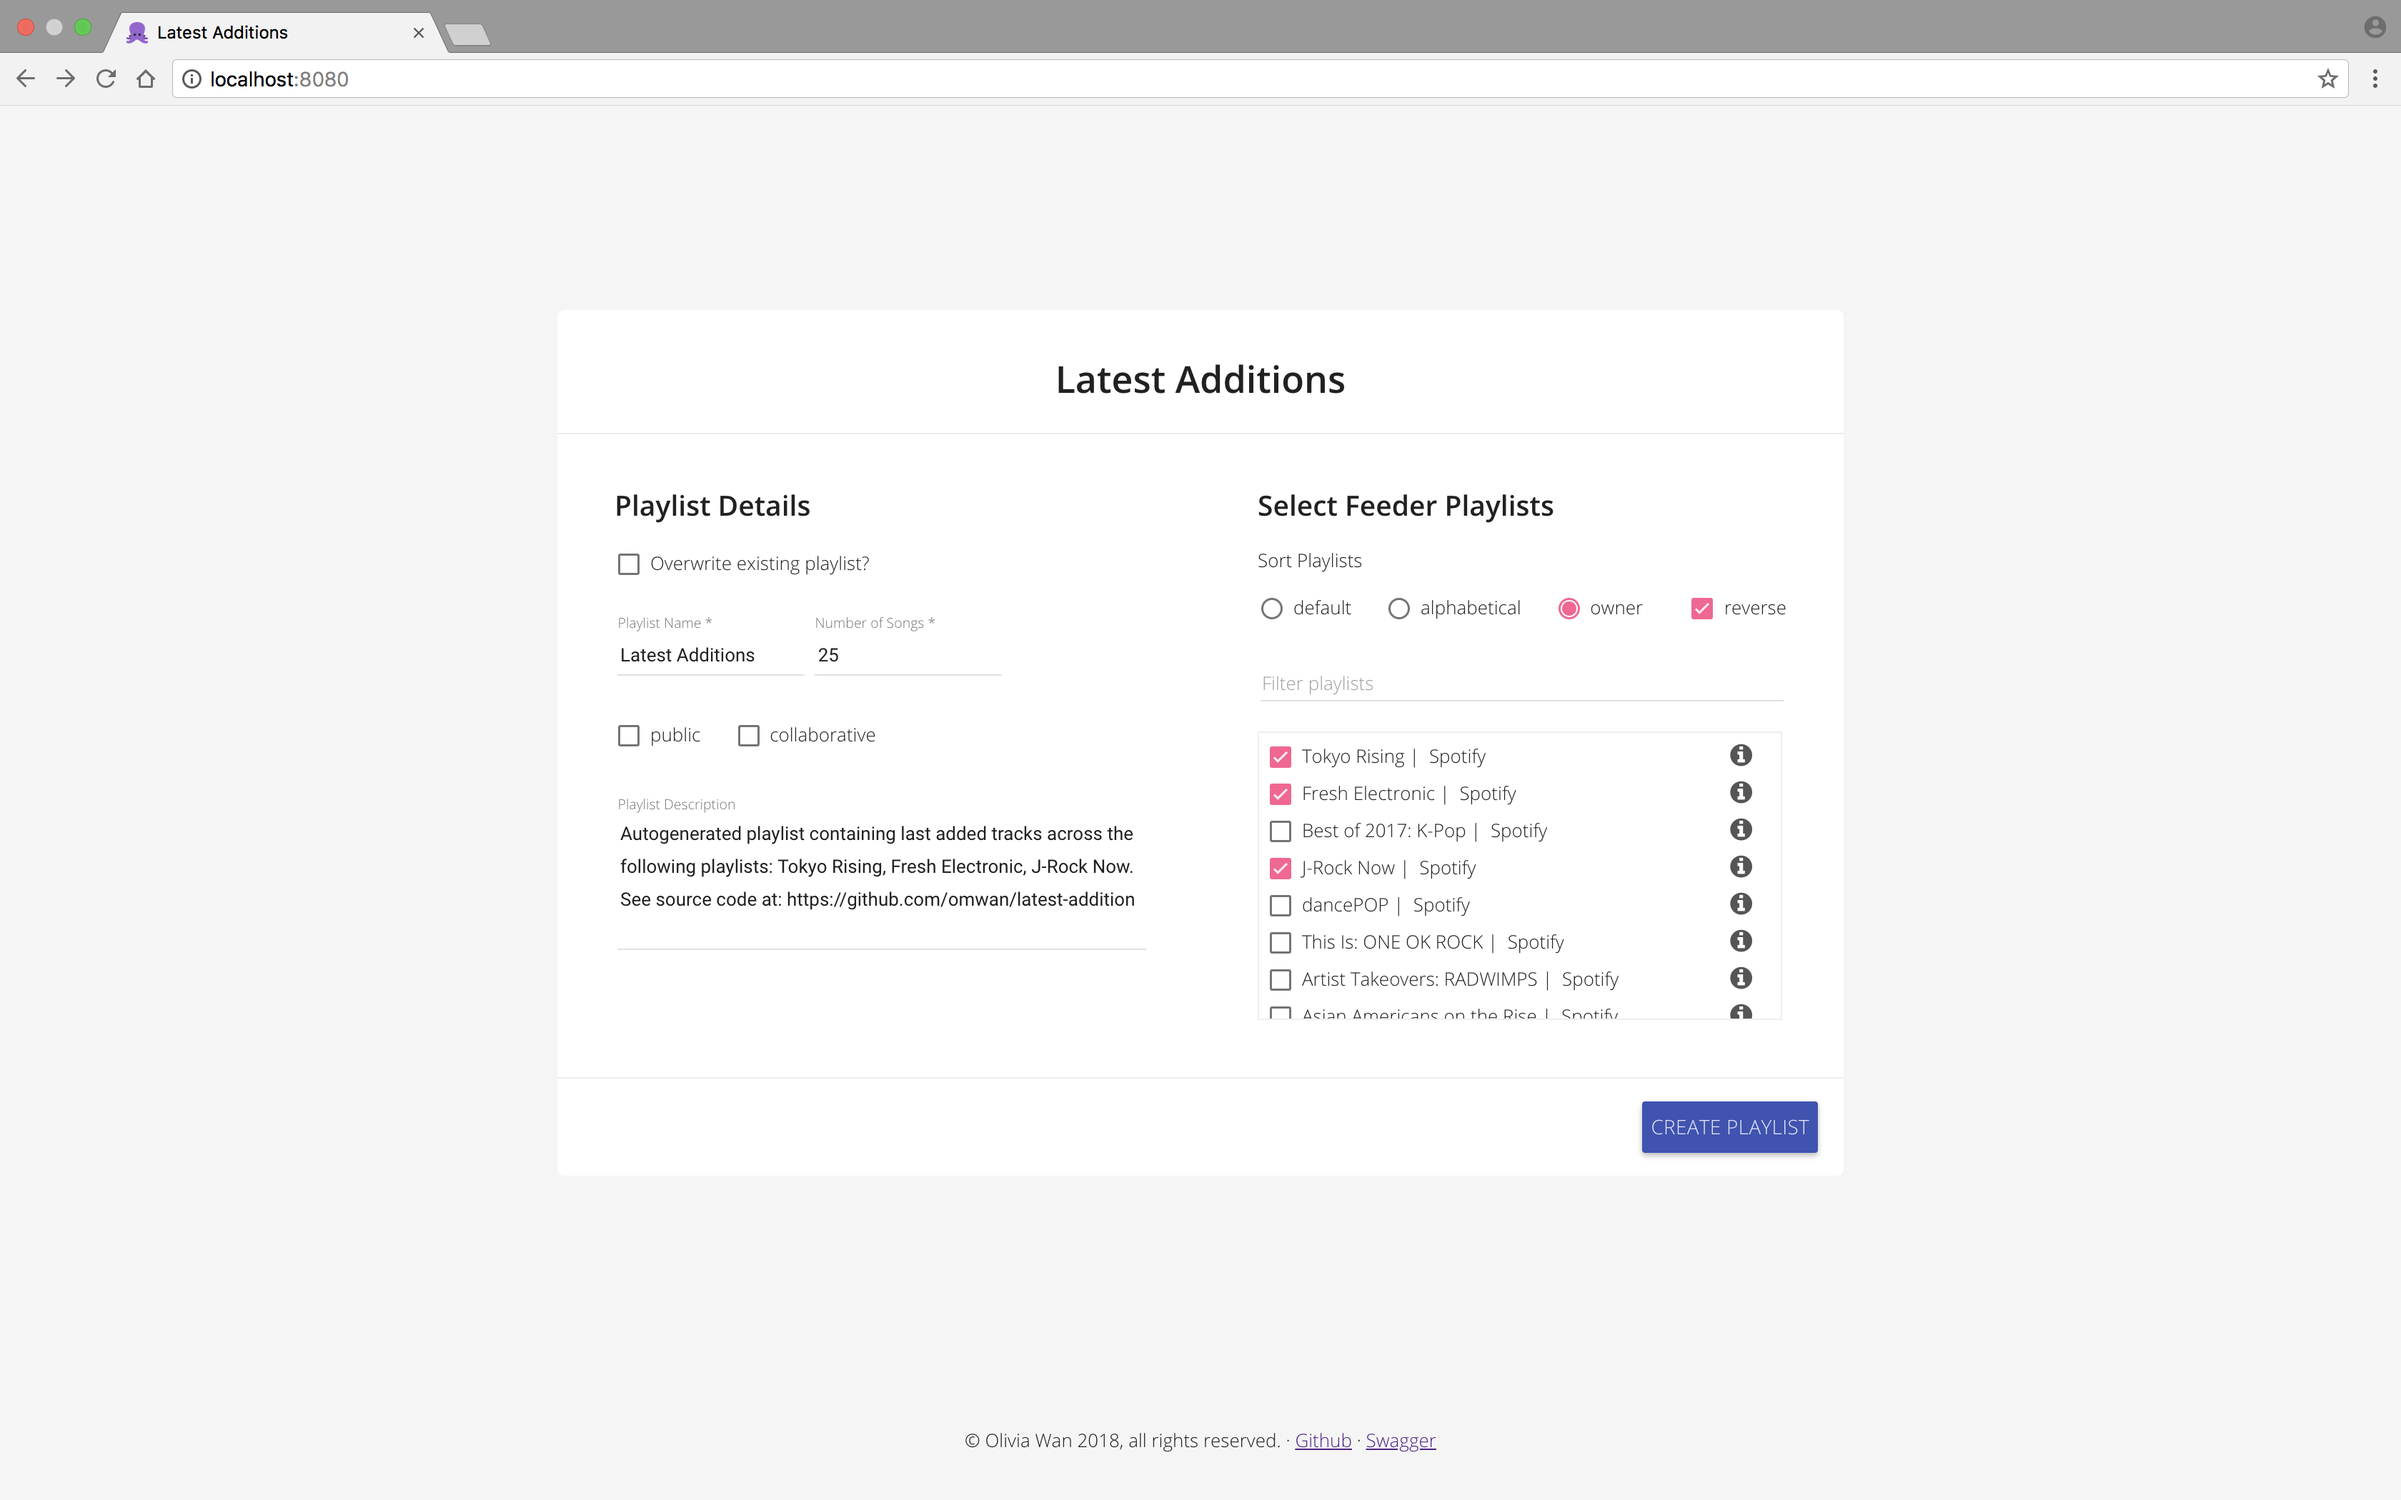
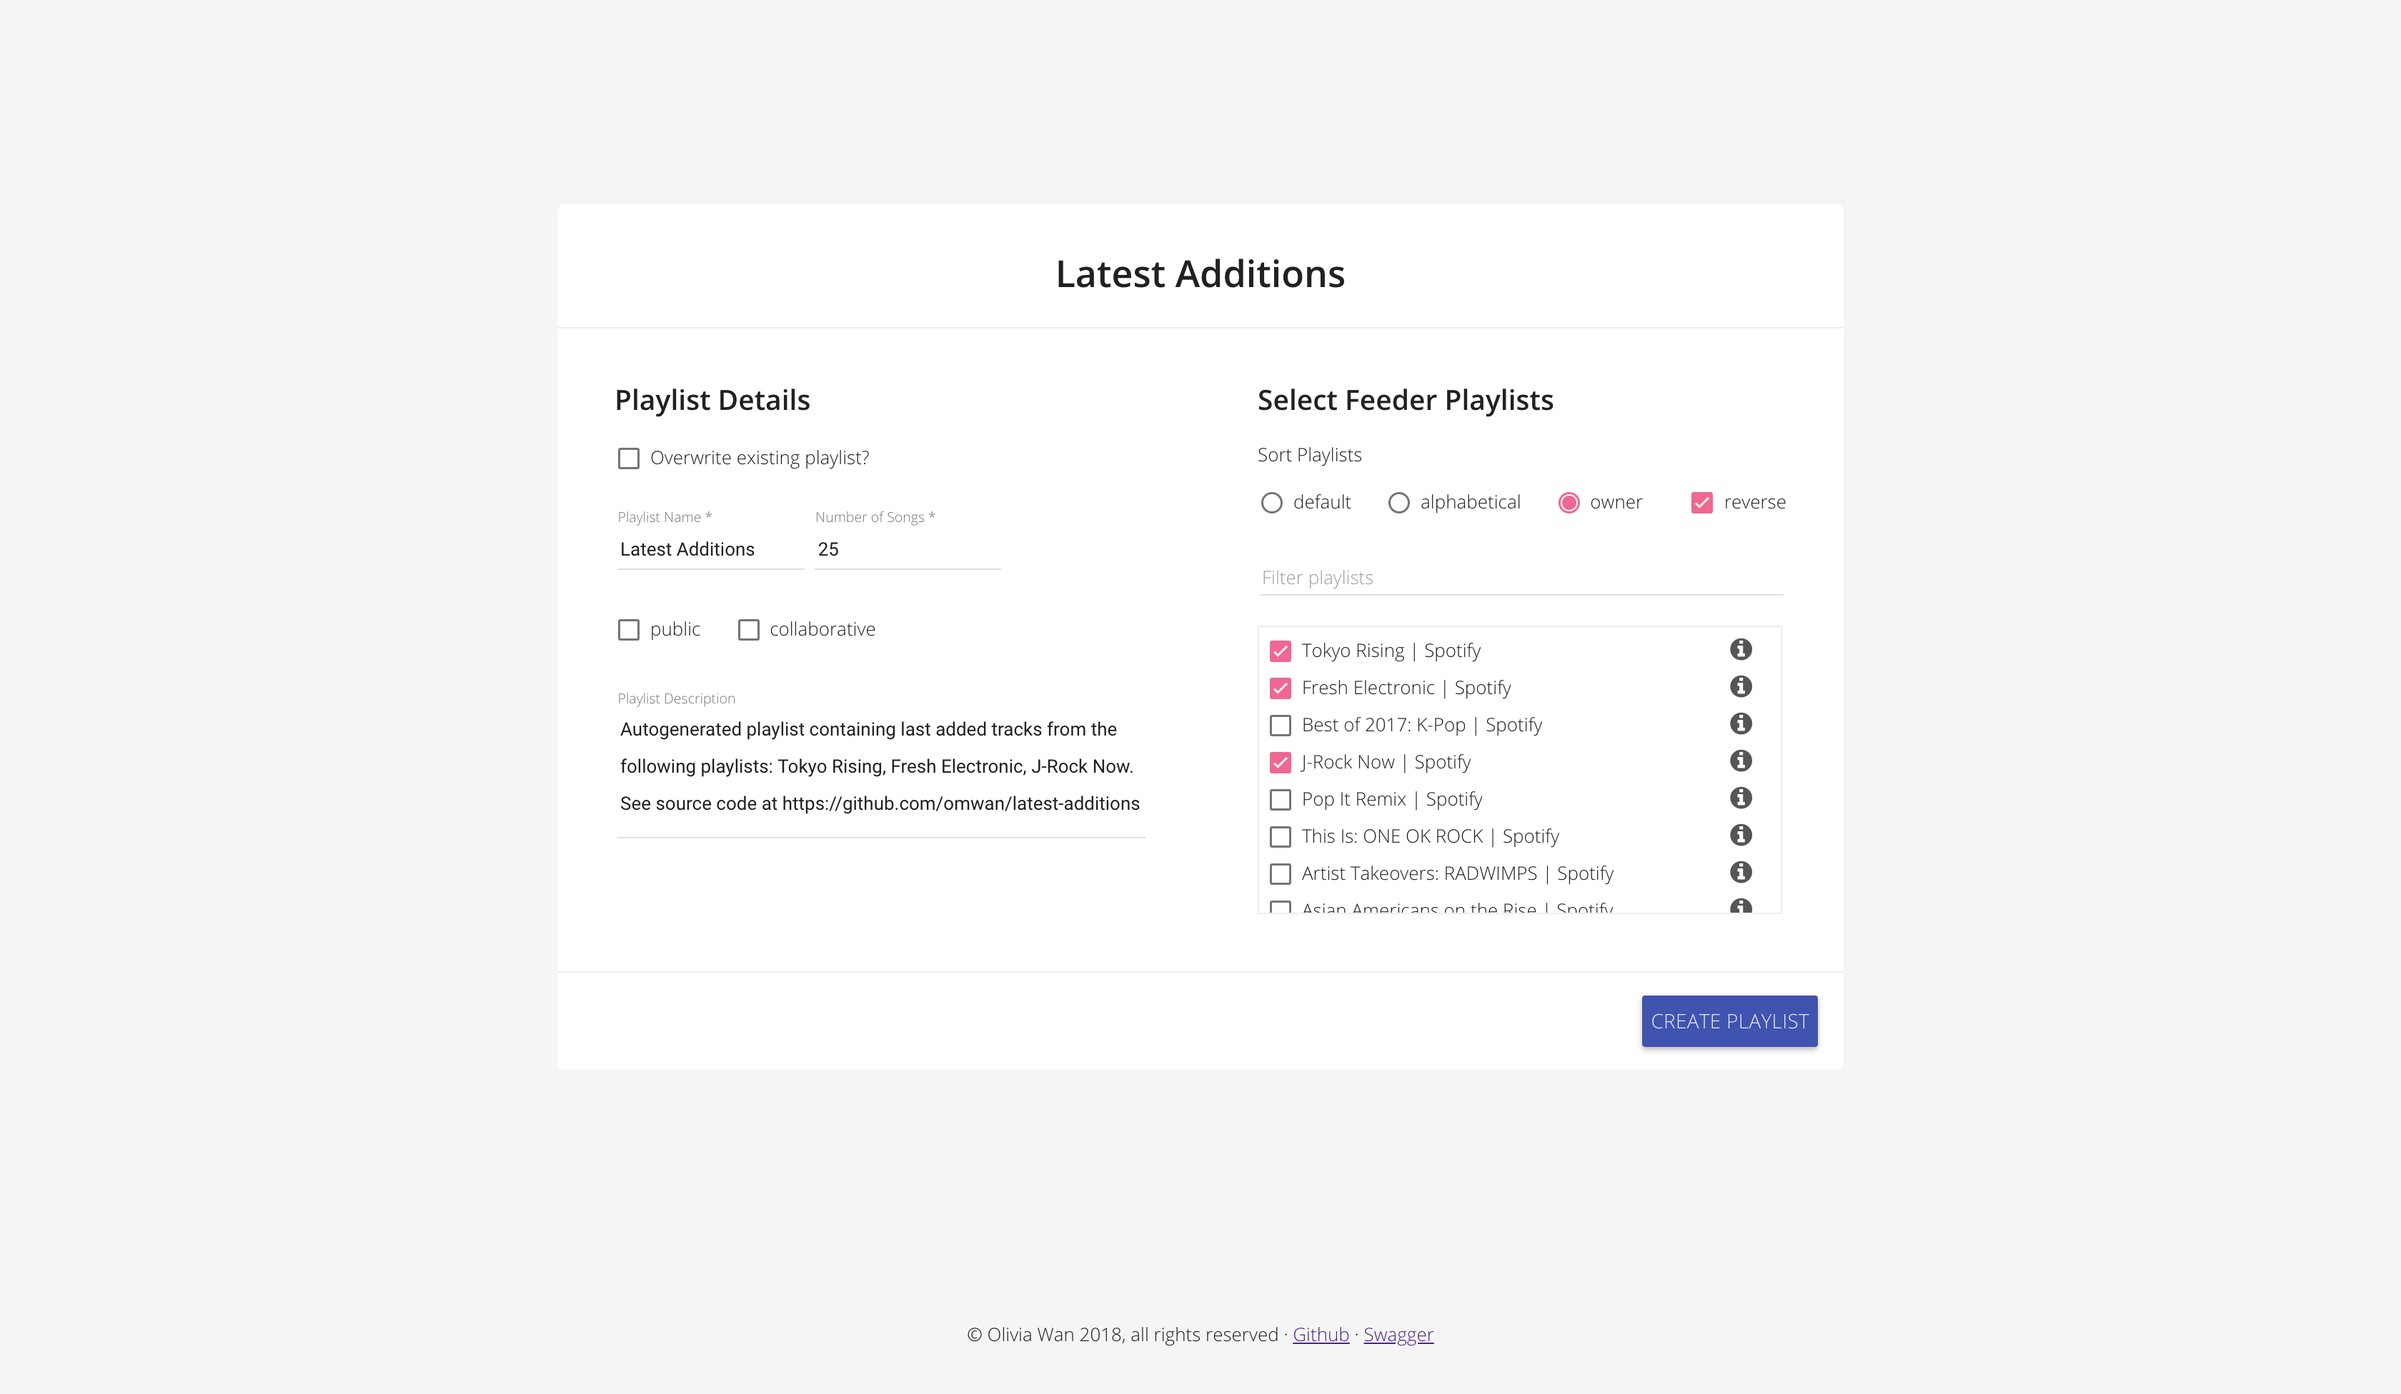
adding new screencaps to readme, minor submission controller fixes

diff --git a/src/main/resources/static/js/controller.js b/src/main/resources/static/js/controller.js
@@ -142,14 +142,14 @@ app.controller('controller', ['$scope', '$http', '$mdDialog', 'rest', 'endpoints
             $scope.submissionForm.playlistUris[playlist.uri] = playlist.tracks.total;
         });
 
-        var description = $scope.submissionForm;
+        var description = $scope.submissionForm.description;
         if (description === "" || description === null) {
             var playlistNames = $scope.selectedPlaylists
                 .map(function (playlist) { return playlist.name; })
                 .join(", ");
             $scope.submissionForm.description = _formatString("Autogenerated playlist containing "
-            + "last added tracks from the following playlists: {0}. See source code at: " +
-                "https://github.com/omwan/latest-addition)", [playlistNames]);
+            + "last added tracks from the following playlists: {0}. See source code at " +
+                "https://github.com/omwan/latest-additions", [playlistNames]);
         }
 
         var successHandler = function (response) {
@@ -168,8 +168,6 @@ app.controller('controller', ['$scope', '$http', '$mdDialog', 'rest', 'endpoints
 
         rest.postData(endpoints.BUILD_PLAYLIST, null, $scope.submissionForm, successHandler,
             "Unable to create playlist with given parameters");
-
-        $scope.submissionForm.description = null;
     };
 
     /**

diff --git a/src/main/resources/static/index.html b/src/main/resources/static/index.html
@@ -212,7 +212,7 @@
 <div class="footer">
     <p>
         © Olivia Wan 2018, all rights reserved &middot;
-        <a href="https://github.com/omwan/latest-addition" target="_blank">Github</a> &middot; 
+        <a href="https://github.com/omwan/latest-additions" target="_blank">Github</a> &middot; 
         <a href="/swagger-ui.html" target="_blank">Swagger</a>
     </p>
 </div>

diff --git a/README.md b/README.md
@@ -43,6 +43,14 @@ In the right panel, all of your playlists (including those that you follow) are 
 
 ## Screencaps
 
+Main application view:
+
 ![app main view](screencaps/app_main_view.png)
 
-![plalist details dialog](screencaps/playlist_details_dialog.png)
+Upon clicking the info button next to each playlist name, a popup dialog opens containing more details about the playlist including its title, owner, description, and number of tracks.
+
+![playlist details dialog](screencaps/playlist_details_dialog.png)
+
+Upon successful playlist creation after submitting the form, a popup dialog opens showing the first 10 tracks of the playlist, and linking to the playlist on Spotify.
+
+![tracklist preview dialog](screencaps/tracklist_preview_dialog.png)
